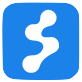
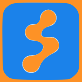
WIP - experimenting with UX

diff --git a/app/assets/javascripts/components/SessionRenewal.js b/app/assets/javascripts/components/SessionRenewal.js
@@ -1,6 +1,7 @@
 import React from 'react';
 import PropTypes from 'prop-types';
 import {apiFetch, apiFetchJson} from '../helpers/apiFetchJson';
+import Lifecycle from '../components/Lifecycle';
 
 
 // Show a warning that the user's session is likely to timeout shortly.
@@ -22,7 +23,7 @@ export default class SessionRenewal extends React.Component {
     this.onRenewClicked = this.onRenewClicked.bind(this);
     this.onRenewCompleted = this.onRenewCompleted.bind(this);
     this.onRenewFailed = this.onRenewFailed.bind(this);
-    
+    this.showAggressiveWarningIfNotVisible = this.showAggressiveWarningIfNotVisible.bind(this);
   }
 
   componentDidMount() {
@@ -63,6 +64,27 @@ export default class SessionRenewal extends React.Component {
     if (!probeJson) return false;
 
     return shouldWarn(probeJson.remaining_seconds, probeIntervalInSeconds, warningDurationInSeconds);
+  }
+
+  showAggressiveWarningIfNotVisible() {
+    // if (!window.document || window.document.hidden !== false) return;
+    // if (window.alert) {
+    //   window.alert('Student Insights will sign out shortly, to protect student data when there is no activity.'); // eslint-disable-line no-alert
+    // }
+    if (window.document.title.indexOf('DRAFT: ') !== 0) {
+      window.document.title = 'DRAFT: ' + window.document.title;
+    }
+
+    // favicon
+    const faviconEl = document.getElementById('favicon');
+    faviconEl.href = '/favicon-alert-orange-white.ico';
+    // const existingEl = document.getElementById('favicon');
+    // const faviconEl = document.createElement('link');
+    // faviconEl.id = existingEl.id;
+    // faviconEl.rel = existingEl.ref;
+    // faviconEl.href = '/favicon-alert.ico'
+    // document.head.removeChild(existingEl);
+    // document.head.appendChild(link);
   }
 
   // At this point, any transient data in the browser will be rejected by the server.
@@ -148,7 +170,9 @@ export default class SessionRenewal extends React.Component {
     if (this.shouldWarn()) {
       return (
         <div style={styles.root}>
-          Please click <a href="#" style={styles.link} onClick={this.onRenewClicked}>this link</a> or your session will timeout due to inactivity.
+          <Lifecycle componentWillMount={this.showAggressiveWarningIfNotVisible}>
+            Please click <a href="#" style={styles.link} onClick={this.onRenewClicked}>this link</a> or your session will timeout due to inactivity.
+          </Lifecycle>
         </div>
       );
     }
